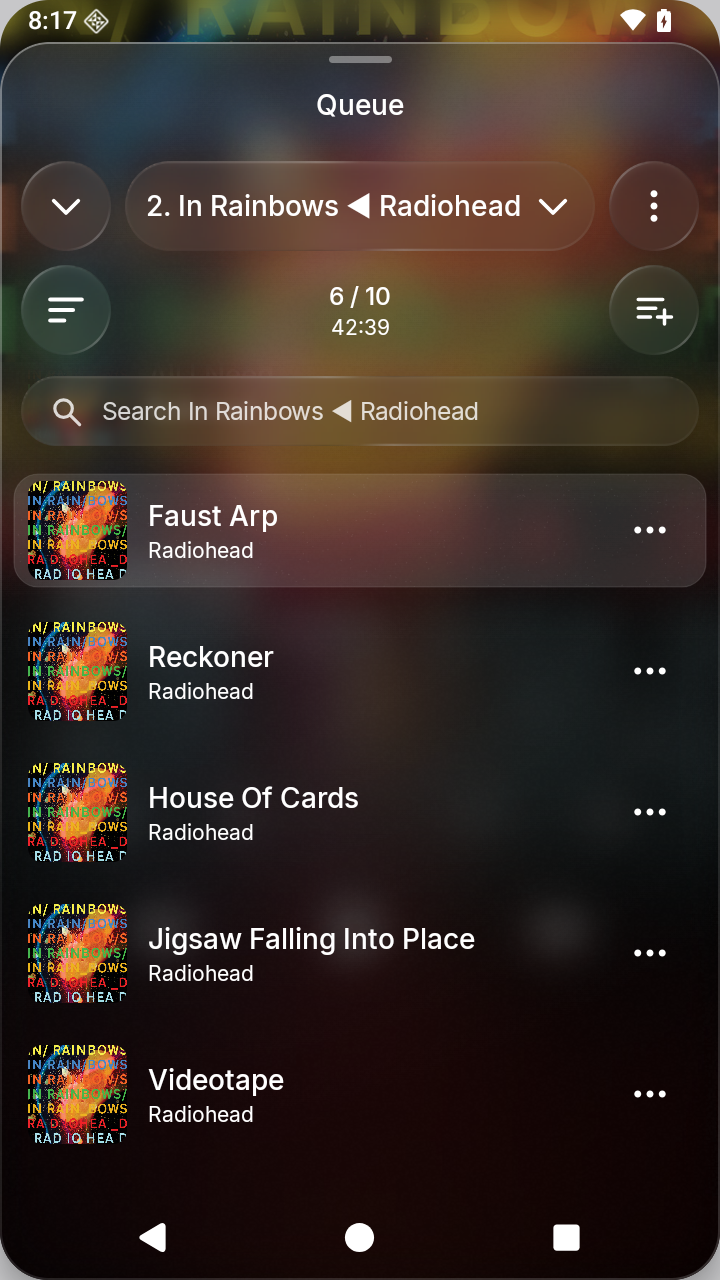
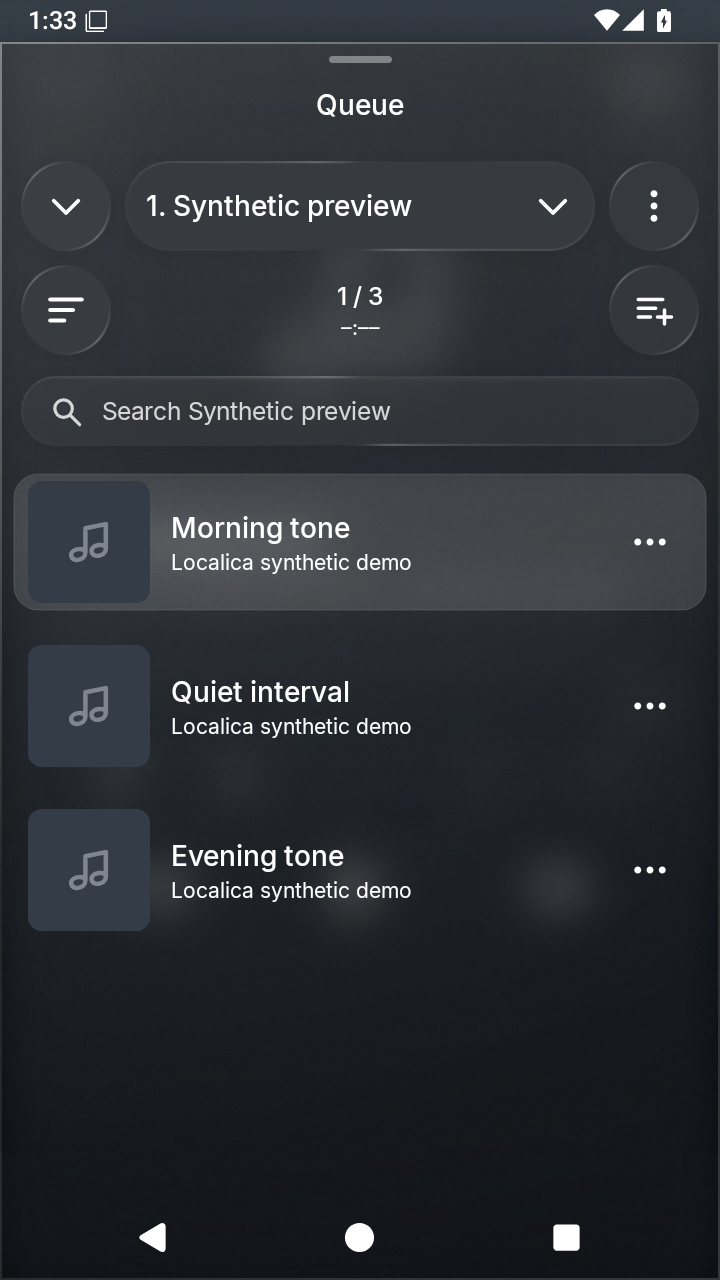
Refresh player and queue previews from verified native capture

diff --git a/README.md b/README.md
@@ -14,13 +14,16 @@ Requires **Android 8+**. Supports MP3 and AAC/M4A, plus WAV, FLAC, Ogg, and Opus
   <img src="docs/images/library.png" width="240" alt="Library showing In Rainbows and Kid A with floating navigation and mini-player">
   <img src="docs/images/album.png" width="240" alt="In Rainbows album page with artwork fading into its track list">
   <img src="docs/images/artist.png" width="240" alt="Radiohead artist page with an album multiselect and combined Play and Shuffle controls">
-  <img src="docs/images/player.png" width="240" alt="Player with embedded artwork and configurable actions">
-  <img src="docs/images/queue.png" width="240" alt="Frosted Queue drawer with saved queues and song controls">
+  <img src="docs/images/player.png" width="240" alt="Square-corner player with synthetic demo audio, placeholder artwork and configurable actions">
+  <img src="docs/images/queue.png" width="240" alt="Square-corner frosted Queue drawer with synthetic demo tracks">
 </p>
 
 <details>
-  <summary>Watch a short navigation preview</summary>
+  <summary>Watch an earlier navigation preview (v0.28.0)</summary>
+  <p>This historical recording predates the current device-corner behavior; a smooth replacement is still pending.</p>
   <p><img src="docs/images/navigation.gif" width="360" alt="Navigating an album, player, and Queue drawer in Localica"></p>
 </details>
 
-Previews captured in v0.28.0 using silent demo files. Album artwork and track names: Radiohead’s [In Rainbows](https://radiohead.bandcamp.com/album/in-rainbows) and [Kid A](https://radiohead.bandcamp.com/album/kid-a). Artwork belongs to its respective rights holders and is not included in the app.
+Player and Queue screenshots show v0.28.1-dev.20261015.3 with synthetic demo audio and placeholder artwork on a square-corner API 36 emulator. See [capture provenance and limitations](docs/build.md#previews).
+
+Library, album, artist and historical navigation previews were captured in v0.28.0 using silent demo files. Album artwork and track names: Radiohead’s [In Rainbows](https://radiohead.bandcamp.com/album/in-rainbows) and [Kid A](https://radiohead.bandcamp.com/album/kid-a). Artwork belongs to its respective rights holders and is not included in the app.

diff --git a/docs/build.md b/docs/build.md
@@ -40,3 +40,9 @@ The [Android workflow](../.github/workflows/android.yml) builds main/PR changes 
 Review README screenshots/GIF for each release. Recapture changed screens from the candidate, inspect at README size, update version/credits and remove obsolete images. Keep navigation recordings short/silent and third-party demo media outside Git/APK.
 
 Reuse `${XDG_DATA_HOME:-$HOME/.local/share}/localica/previews/` for the local library, setup notes and raw captures. Preserve emulator music/app data; update with `adb install -r` rather than recreating the library.
+
+Current player/Queue stills were captured from real `MainActivity` in [run 38835172621](https://github.com/anastaci1a/localica/actions/runs/38835172621), using production base `73be3492cc238a81069dcaefc7b214a5bb757581` (version code 53) and test-only capture commit `ea3e4e20e98fb8d950871e96cce00a47da0435a5`. Production sources and workflow files matched the base. API 36 reported no hardware rounded corners: 720×1280, player bounds `(0,0)–(720,1280)`, Queue bounds `(0,42)–(720,1280)`. Both PNGs are unmodified native screenshots with synthetic tone fixtures and placeholder artwork; this does not verify a physically rounded display.
+
[1 lines of base64/hex data omitted]
+
+The older `navigation.gif` remains historical, not evidence of current corner behavior. The real-clock diagnostic recording was visibly jumpy on the hosted emulator (app frame durations 87–452 ms); it was not substituted for the GIF. A smooth replacement remains part of [#208](https://github.com/anastaci1a/localica/issues/208). Existing artwork credits still apply to the unchanged older previews.
